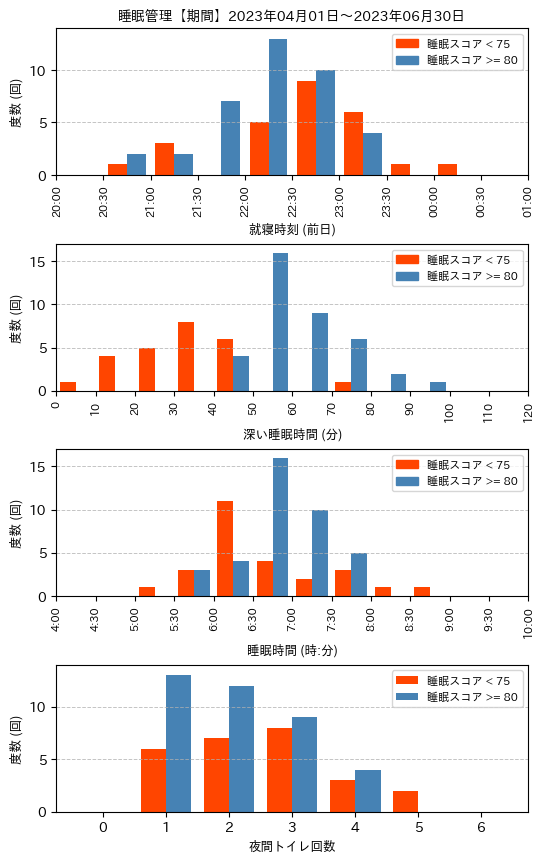
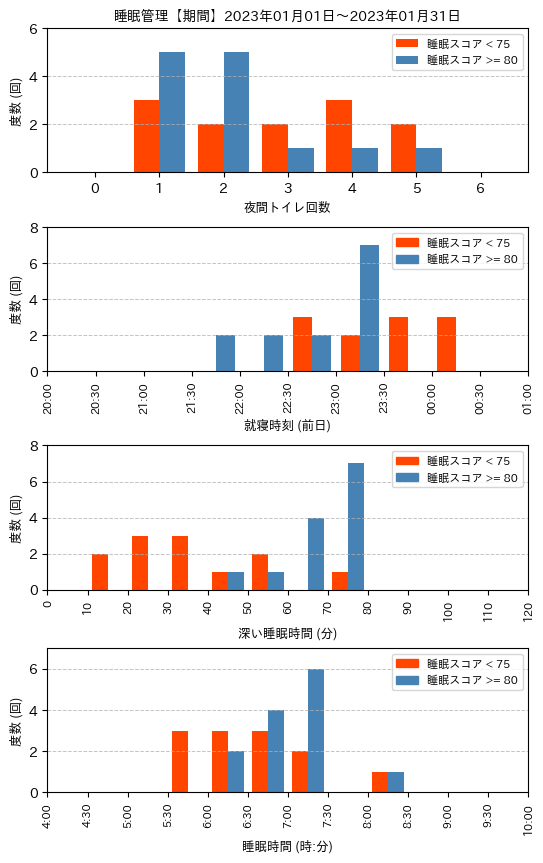
Change plot order of mid-night toilet visits.

diff --git a/src/healthcare/PlotTwinHistSleepMan_pandasSql.py b/src/healthcare/PlotTwinHistSleepMan_pandasSql.py
@@ -35,10 +35,10 @@ from util.file_util import gen_imgname
   (A) 睡眠スコア >=80
   (B) 睡眠スコア <75
 [プロット列]
-  (1) 睡眠時刻 (計算項目): 起床時刻(SQLで取得) - 睡眠時間(SQLで取得)
-  (2) 深い睡眠時間 (SQLで取得): 分に変換
-  (3) 睡眠時間 (SQLで取得)
-  (4) 夜間トイレ回数 (SQLで取得)
+  (1) 夜間トイレ回数 (SQLで取得)
+  (2) 睡眠時刻 (計算項目): 起床時刻(SQLで取得) - 睡眠時間(SQLで取得)
+  (3) 深い睡眠時間 (SQLで取得): 分に変換
+  (4) 睡眠時間 (SQLで取得)
 """
 
 # スクリプト名
@@ -104,7 +104,12 @@ FMT_MEASUREMENT_RANGE: str = "睡眠管理【期間】{}〜{}"
 GRID_SPEC_HEIGHT_RATIO: List[int] = [25, 25, 25, 25]
 # Y軸ラベル名 ※全領域共通
 Y_LABEL_HIST: str = '度数 (回)'
-# 1段目: 就寝時刻: (前日) 20:00 〜 (当日) 1:00
+# 1段目: 夜間トイレ回数
+X_LABEL_TOILET_VISITS: str = '夜間トイレ回数'
+TOILET_VISITS_MIN: int = 0
+TOILET_VISITS_MAX: int = 7
+STEP_TOILET_VISITS: int = 1
+# 2段目: 就寝時刻: (前日) 20:00 〜 (当日) 1:00
 X_LABEL_BED_TIME: str = '就寝時刻 (前日)'
 BED_TIME_MIN: int = -240  # 前日 20:00
 BED_TIME_MAX: int = 60  # 当日 01:00
@@ -113,21 +118,16 @@ X_BED_TIME_TICKS: List[str] = [
     '20:00', '20:30', '21:00', '21:30', '22:00', '22:30',
     '23:00', '23:30', '00:00', '00:30', '01:00'
 ]
-# 2段目: 深い睡眠: 0〜120
+# 3段目: 深い睡眠: 0〜120
 X_LABEL_DEEP_SLEEPING: str = '深い睡眠時間 (分)'
 DEEP_SLEEPING_MIN: int = 0
 DEEP_SLEEPING_MAX: int = 120
 STEP_DEEP_SLEEPING: int = 10
-# 3段目: 睡眠時間: 4:00 〜 10:00
+# 4段目: 睡眠時間: 4:00 〜 10:00
 Y_LABEL_SLEEPING: str = '睡眠時間 (時:分)'
 SLEEPING_MIN: int = 240  # 4:00
 SLEEPING_MAX: int = 600  # 10:00
 STEP_SLEEPING: int = 30
-# 4段目: 夜間トイレ回数
-X_LABEL_TOILET_VISITS: str = '夜間トイレ回数'
-TOILET_VISITS_MIN: int = 0
-TOILET_VISITS_MAX: int = 7
-STEP_TOILET_VISITS: int = 1
 
 # 棒グラフの幅比率
 BAR_WIDTH_RATIO: float = 0.8
@@ -594,15 +594,15 @@ if __name__ == '__main__':
         PHONE_PX_WIDTH, PHONE_PX_HEIGHT, PHONE_DENSITY
     )
     fig: Figure
-    # 1段目: 就寝時刻の度数プロット領域
-    ax_bedtime: Axes
-    # 2段目: 深い睡眠の度数プロット領域
-    ax_deep_sleeping: Axes
-    # 3段目: 睡眠時間の度数プロット領域
-    ax_sleeping: Axes
-    # 4段目: 夜間トイレ回数の度数プロット領域
+    # 1段目: 夜間トイレ回数の度数プロット領域
     ax_toilet_visits: Axes
-    fig, (ax_bedtime, ax_deep_sleeping, ax_sleeping, ax_toilet_visits) = plt.subplots(
+    # 2段目: 就寝時刻の度数プロット領域
+    ax_bedtime: Axes
+    # 3段目: 深い睡眠の度数プロット領域
+    ax_deep_sleeping: Axes
+    # 4段目: 睡眠時間の度数プロット領域
+    ax_sleeping: Axes
+    fig, (ax_toilet_visits, ax_bedtime, ax_deep_sleeping, ax_sleeping) = plt.subplots(
         4, 1, gridspec_kw={'height_ratios': GRID_SPEC_HEIGHT_RATIO}, layout='constrained',
         figsize=(fig_width_inch, fig_height_inch)
     )
@@ -610,25 +610,26 @@ if __name__ == '__main__':
     #  with subplots_adjust and/or tight_layout; not calling subplots_adjust.
     # plt.subplots_adjust(hspace=2.0)
     # Y方向のグリッド線のみ表示
-    for axes in [ax_bedtime, ax_deep_sleeping, ax_sleeping, ax_toilet_visits]:
+    for axes in [ax_toilet_visits, ax_bedtime, ax_deep_sleeping, ax_sleeping]:
         axes.grid(**AXES_GRID_STYLE)
 
-    # グラフタイトル (月間範囲)
+    # (1) 夜間起床回数
+    # グラフタイトル (期間)
     titleDateRange: str = makeTitleWithDayRange(start_date, end_date)
-    ax_bedtime.set_title(titleDateRange, **TITLE_STYLE)
+    ax_toilet_visits.set_title(titleDateRange, **TITLE_STYLE)
+    # Axes.barでツイン棒グラフ描画
+    plotToiletVisitsTwinHist(ax_toilet_visits, warn_toilet_visits, good_toilet_visits)
     # カスタム(矩形)のツイン棒グラフ描画
-    # (1) 就寝時刻プロット
+    # (2) 就寝時刻プロット
     plotBedtimeTwinBar(ax_bedtime, warn_bedtime, good_bedtime)
-    # (2) 深い睡眠時間プロット
+    # (3) 深い睡眠時間プロット
     plotDeepSleepingTwinBar(ax_deep_sleeping, warn_deep_sleeping, good_deep_sleeping)
-    # (3) 睡眠時間プロット
+    # (4) 睡眠時間プロット
     plotSleepingTwinBar(ax_sleeping, warn_sleeping, good_sleeping)
-    # 同じ凡例をまとめて設定 (1)-(3)
+    # 同じ凡例をまとめて設定 (2)-(4)
     # https://matplotlib.org/stable/api/_as_gen/matplotlib.pyplot.legend.html
     for axes in [ax_bedtime, ax_deep_sleeping, ax_sleeping]:
         axes.legend(handles=[WARN_LEGEND, GOOD_LEGEND], **LEGEND_STYLE)
-    # Axes.barでツイン棒グラフ描画
-    plotToiletVisitsTwinHist(ax_toilet_visits, warn_toilet_visits, good_toilet_visits)
 
     # プロット結果をPNG形式でファイル保存
     save_name = gen_imgname(script_name)
